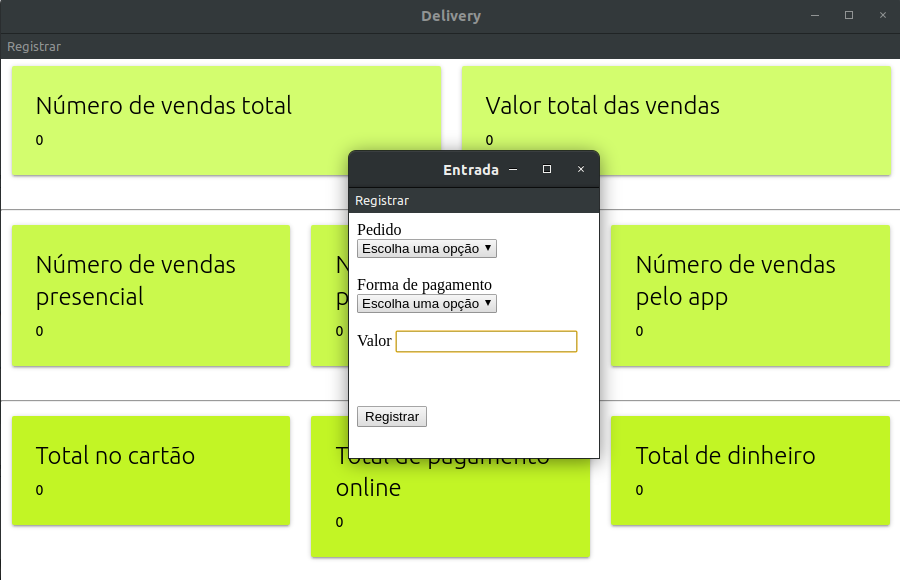
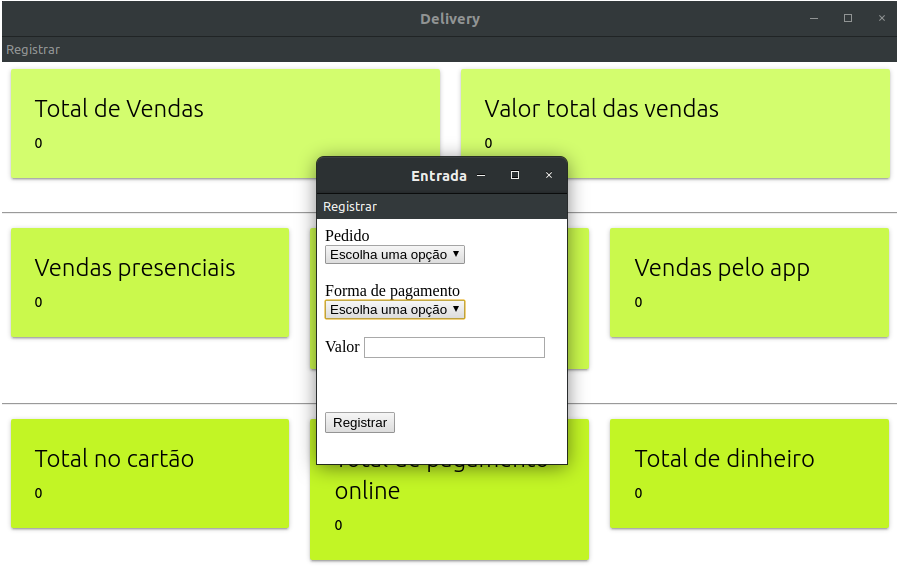
fix: change names in main window

diff --git a/mainWindow.html b/mainWindow.html
@@ -22,7 +22,7 @@
       <div class="col s12 m6">
         <div class="card lime lighten-2">
           <div class="card-content black-text">
-            <span class="card-title">Número de vendas total</span>
+            <span class="card-title">Total de Vendas</span>
             <div class="sales-total">0</div>
           </div>
         </div>
@@ -46,7 +46,7 @@
       <div class="col s12 m4">
         <div class="card lime lighten-1">
           <div class="card-content black-text">
-            <span class="card-title">Número de vendas presencial</span>
+            <span class="card-title">Vendas presenciais</span>
             <div class="sales-pres">0</div>
           </div>
         </div>
@@ -55,7 +55,7 @@
       <div class="col s12 m4">
         <div class="card lime lighten-1">
           <div class="card-content black-text">
-            <span class="card-title">Número de vendas pelo WhatsApp</span>
+            <span class="card-title">Vendas pelo WhatsApp</span>
             <div class="sales-wpp">0</div>
           </div>
         </div>
@@ -64,7 +64,7 @@
       <div class="col s12 m4">
         <div class="card lime lighten-1">
           <div class="card-content black-text">
-            <span class="card-title">Número de vendas pelo app</span>
+            <span class="card-title">Vendas pelo app</span>
             <div class="sales-app">0</div>
           </div>
         </div>
